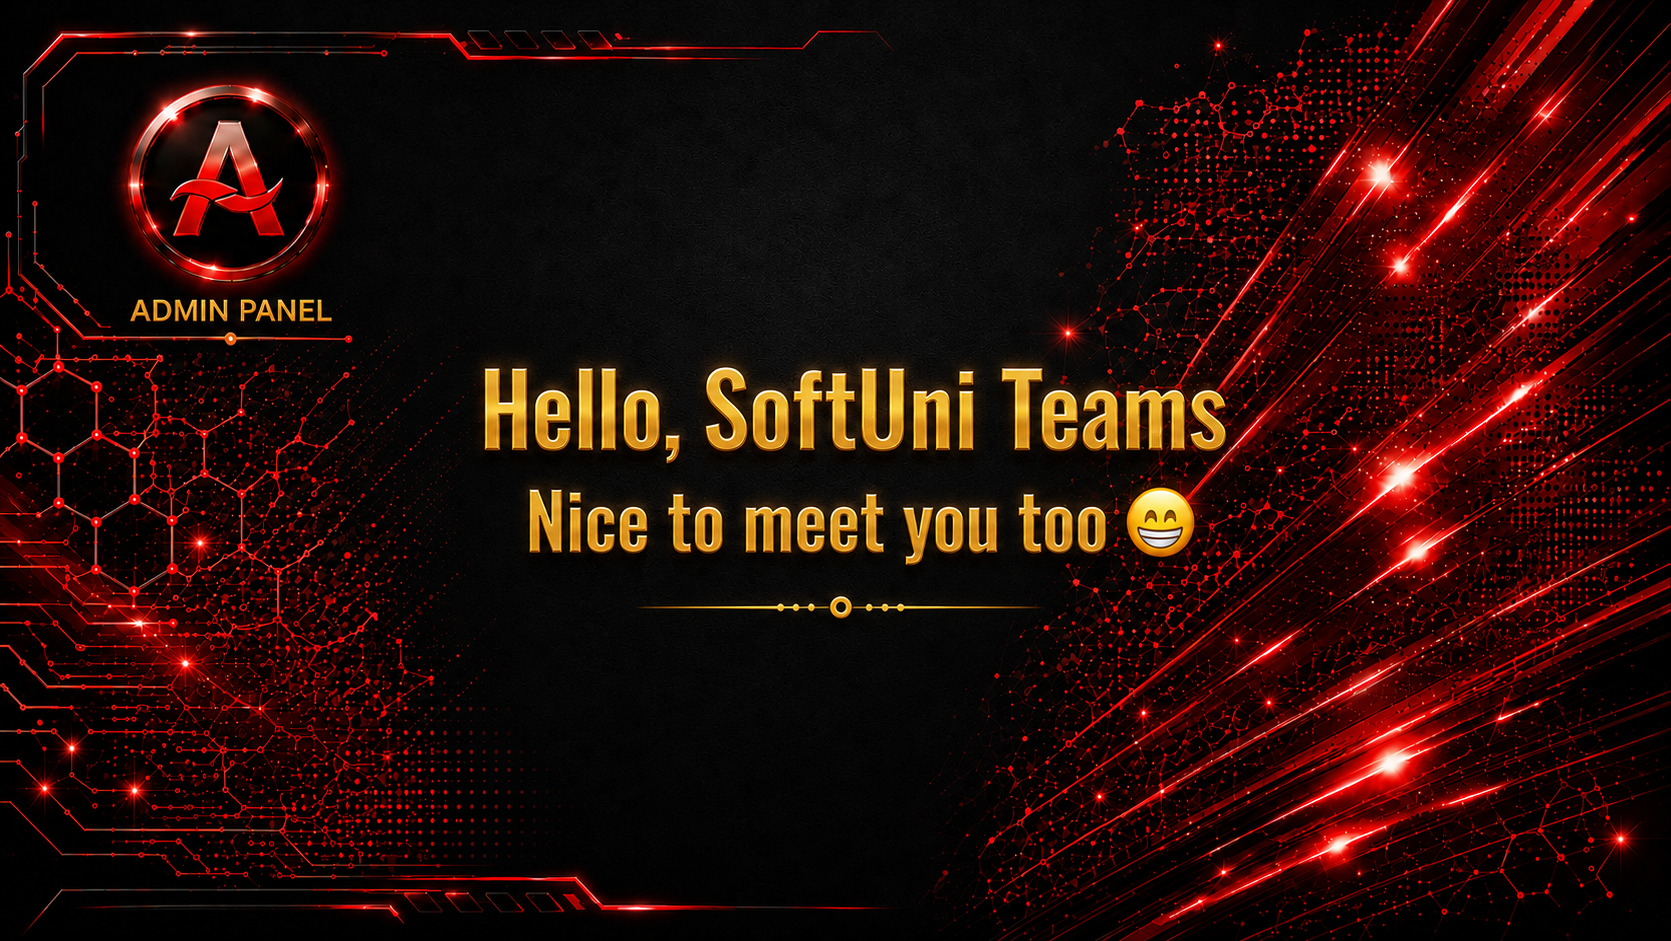
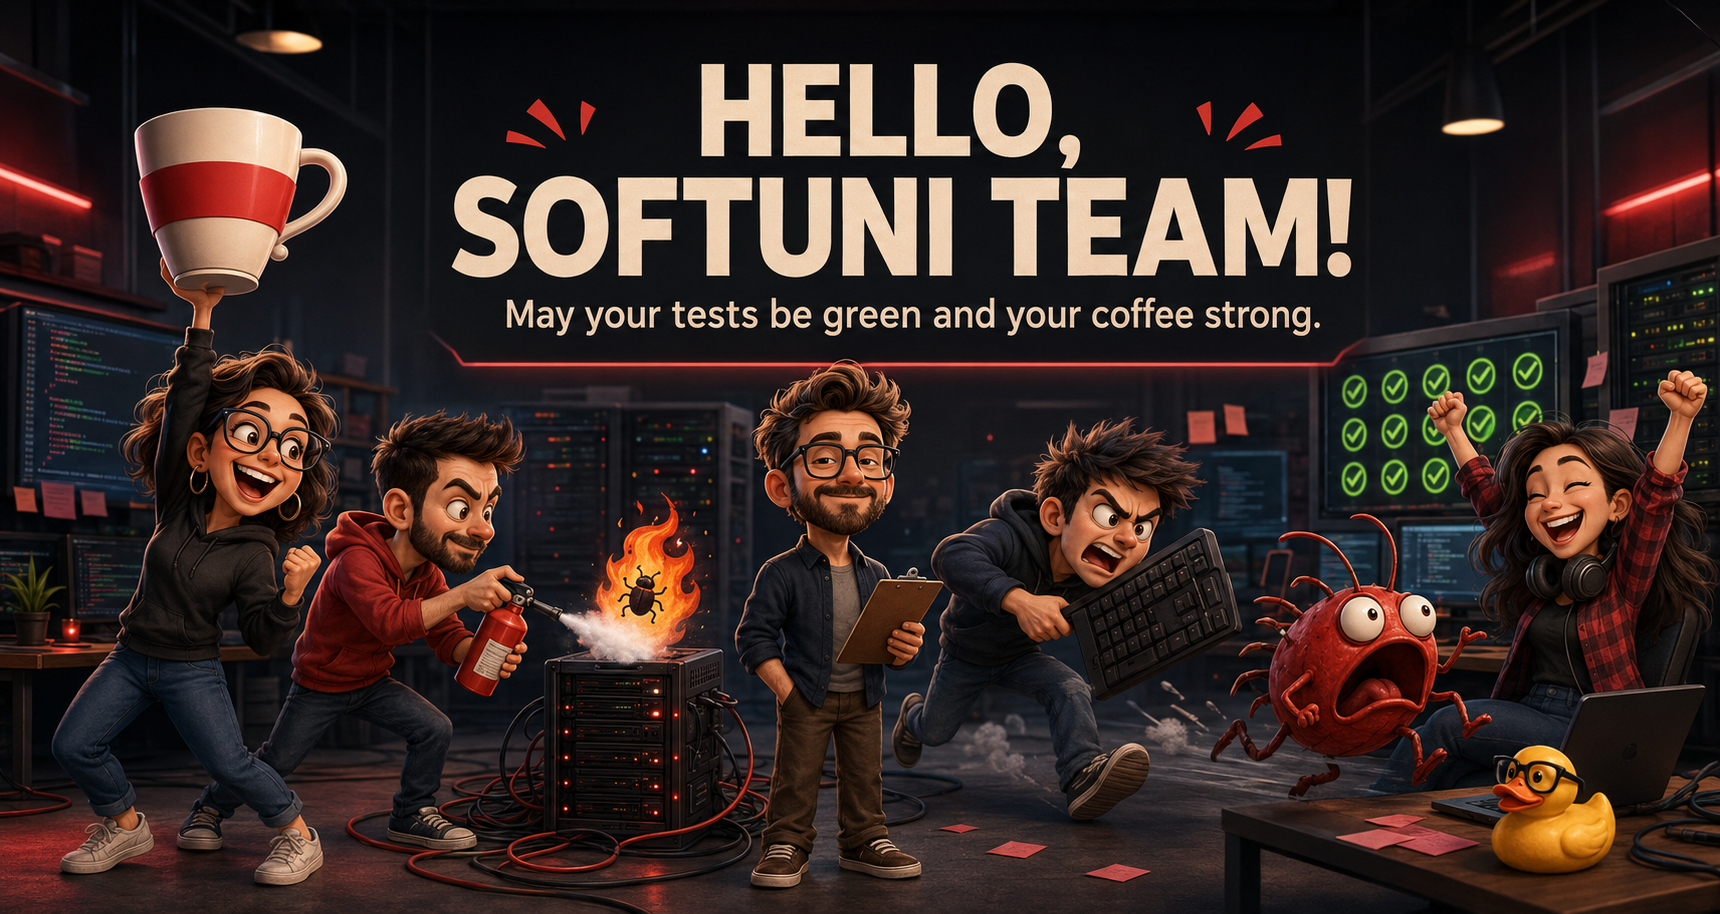
Replaced some backgrounds and DB parameters was hidden

diff --git a/README.md b/README.md
@@ -1,6 +1,6 @@
 <p align="center">
   <img
-    src="https://readme-typing-svg.demolab.com?font=Orbitron&size=42&duration=2500&pause=1000&color=E53935&center=true&vCenter=true&width=700&lines=%F0%9F%92%B0+ASWallet-Vol.2-svc+%F0%9F%92%B0"
+    src="https://readme-typing-svg.demolab.com?font=Orbitron&size=42&duration=2500&pause=1000&color=E53935&center=true&vCenter=true&width=700&lines=ASWallet-Vol.2-svc"
     alt="ASWallet-Vol.2-svc"
   />
 </p>
@@ -8,7 +8,7 @@
 ---
 
 <p align="center">
-  <img src="src/main/resources/static/images/screenShot.png" width="520" alt="">
+  <img src="src/main/resources/static/images/screenShot.png" width="560" alt="">
 </p>
 
 ---
@@ -68,7 +68,7 @@ Consumed by the main app via **Spring Cloud OpenFeign** on transfer confirm and 
 | Test classes             | **4**                                         |
 | Test methods             | **+-30**                                      |
 | Static files             | **3** (`index.html`, `home.css`, `hello.png`) |
-| Line coverage            | **90%** ✅                                     |
+| Line coverage            | **91%** ✅                                     |
 
 ---
 
@@ -297,8 +297,8 @@ spring.application.name=ASWallet-Vol.2-svc
 server.port=8081
 
 spring.datasource.url=jdbc:mysql://localhost:3306/as_wallet_svc?createDatabaseIfNotExist=true
-spring.datasource.username=root
-spring.datasource.password=${DB_PASSWORD:change-me}
+spring.datasource.username= your user
+spring.datasource.password= your pass
 
 spring.jpa.hibernate.ddl-auto=update
 
@@ -314,11 +314,7 @@ app.security.api-key=${RISK_SERVICE_API_KEY:aswallet-dev-api-key}
 ```sql
 CREATE DATABASE IF NOT EXISTS as_wallet_svc;
 ```
-
-```powershell
-$env:DB_PASSWORD = "your_mysql_password"
-mvn spring-boot:run
-```
+---
 
 - API: **http://localhost:8081/api/risk-assessments/manual-reviews**
 - Splash: **http://localhost:8081/**
@@ -333,12 +329,12 @@ Start before or with the main app on `:8080`.
 mvn test
 ```
 
-| Test class | Type | Focus |
-|------------|------|-------|
-| `RiskScoringServiceTest` | Unit | Scoring rules (5 tests) |
-| `RiskAssessmentServiceTest` | Unit | Service logic (9 tests) |
-| `RiskAssessmentServiceIntegrationTest` | Integration | H2 full stack (3 tests) |
-| `RiskAssessmentControllerWebMvcTest` | API | REST endpoints + API key 401 (13 tests) |
+| Test class                             | Type        | Focus                                   |
+|----------------------------------------|-------------|-----------------------------------------|
+| `RiskScoringServiceTest`               | Unit        | Scoring rules (5 tests)                 |
+| `RiskAssessmentServiceTest`            | Unit        | Service logic (9 tests)                 |
+| `RiskAssessmentServiceIntegrationTest` | Integration | H2 full stack (3 tests)                 |
+| `RiskAssessmentControllerWebMvcTest`   | API         | REST endpoints + API key 401 (13 tests) |
 
 **~30** test methods total. Target 90%+ line coverage ✅.
 
